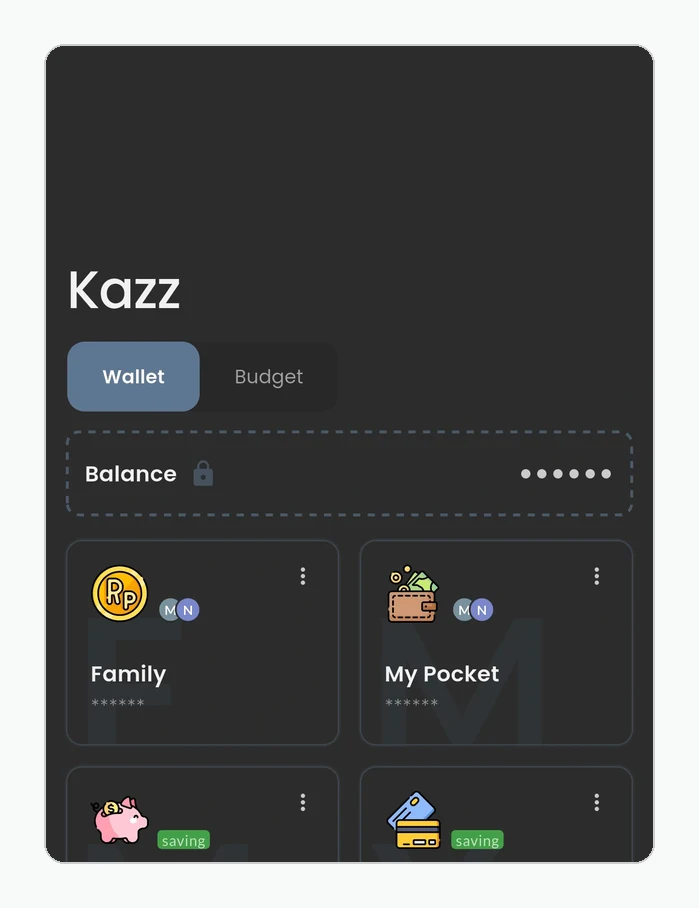
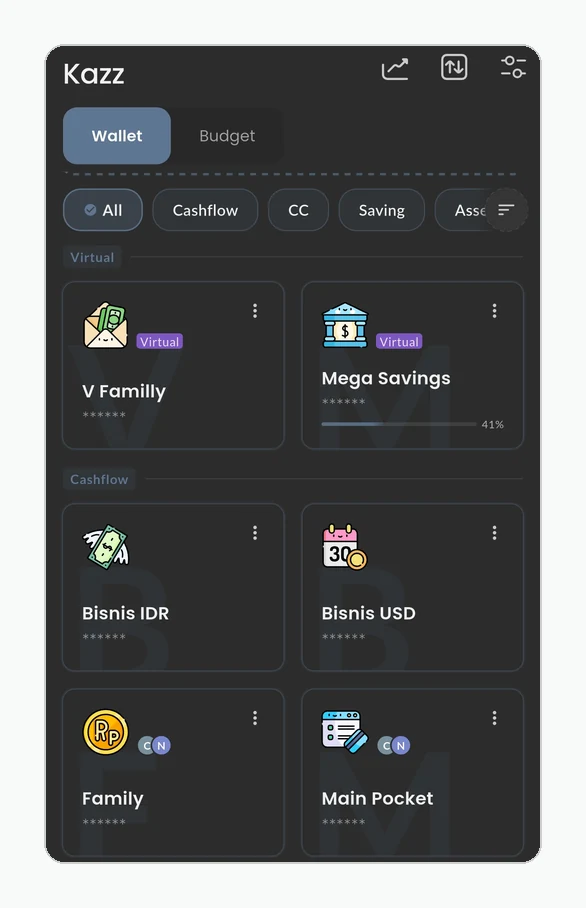
feat(portfolio): real screenshots, offline-first and iOS for Kazz
Screenshots. Three body images were still placeholders. The chat one is
now a real conversation; receipt scan and split bill had no screenshot
to replace them with, so the images and their references are gone and
the prose stays. Home and the wallet list are retaken from the current
app, and notification auto-log gets an image of its own, since it is
the feature the article leads with. Both cards are now three of the
designed iOS store screenshots side by side, with no panel shared
between the Kazz and Kazz AI cards.

Offline-first. The app no longer asks the server for home with a
conditional request; transactions, wallets and categories live on the
phone, queue while offline, and sync both ways (money-magnet #256). The
304 section is replaced by one on working without a signal: replayed
changes apply once, balances are recomputed on the server rather than
pushed, and concurrent edits merge field by field. Voice, receipt
capture and Kazz AI still need a connection and are not claimed
otherwise. drafts/README.md is corrected to match.

Also: virtual wallets that group two to eight wallets as one; iOS is
out, so the App Store is linked, sign-in is Google or Apple, and
notification capture is marked Android only, which iOS does not allow.

The chat flow diagram now hangs Tool 1-3 under the agents, n8n style,
with results looping back to them. Em dashes are gone from both
articles and both diagrams.

diff --git a/content/portfolio/kazz.md b/content/portfolio/kazz.md
@@ -1,26 +1,27 @@
 ---
-title: "Kazz — a personal finance app with 18,000 users (2025 - Present)"
+title: "Kazz, a personal finance app with 18,000 users (2025 - Present)"
 date: 2025-06-01T09:00:00+08:00
 draft: false
 image: "/img/portfolio/kazz-front.webp"
 showonlyimage: false
 weight: 7
 tags: ["flutter", "golang", "postgresql", "genkit", "ai"]
-categories: ["android", "backend"]
+categories: ["android", "ios", "backend"]
 ---
 
-A personal expense tracker on Android: record what you spend by typing, speaking, or photographing the receipt — or let the app lift it straight out of your bank notifications — then hold it to a budget and ask the app what the month looked like. [Flutter, Golang, PostgreSQL].
+A personal expense tracker for Android and iOS: record what you spend by typing, speaking, or photographing the receipt, or let the app lift it straight out of your bank notifications. Then hold it to a budget and ask the app what the month looked like. [Flutter, Golang, PostgreSQL].
 <!--more-->
 
-Kazz is mine end to end — the Flutter app, the Go backend, and the landing page at [kalsel.dev](https://www.kalsel.dev/). It runs across Asia-Pacific with more than 18,000 active users and 410,000 transactions logged, rated 4.8 from 181 reviews on [Google Play](https://play.google.com/store/apps/details?id=dev.kalsel.kazz). Android today; iOS later in 2026.
+Kazz is mine end to end: the Flutter app, the Go backend, and the landing page at [kalsel.dev](https://www.kalsel.dev/). It runs across Asia-Pacific with more than 18,000 active users and 410,000 transactions logged, rated 4.8 from 181 reviews on [Google Play](https://play.google.com/store/apps/details?id=dev.kalsel.kazz), and now on the [App Store](https://apps.apple.com/app/kazz-expense-tracker/id6814098959) as well.
 
 ![The home screen][home]
 
 #### What it does
 - record transactions by typing, by voice, or by scanning a receipt
-- turn bank and e-wallet notifications into drafts on their own, confirmed in a batch
+- keep recording with no signal, synced when the phone is back online
+- turn bank and e-wallet notifications into drafts on their own, confirmed in a batch (Android)
 - ask Kazz AI about your own spending and have it draw the chart
-- keep several wallets — cash flow, savings, a hidden-balance pocket, a gold pocket valued at the current price
+- keep several wallets (cash flow, savings, a hidden-balance pocket, a gold pocket valued at the current price) and group them into a virtual wallet
 - share a wallet with a partner or family, synced in real time
 - budget by week, month, quarter, year, or a range you choose, with alerts
 - classify spending as Need, Want, or Save, the Kakeibo way
@@ -33,19 +34,19 @@ Kazz is mine end to end — the Flutter app, the Go backend, and the landing pag
 
 This is the feature that changes how the app is used.
 
-Every expense tracker has the same real problem, and it is not data entry — it is memory. People do not abandon these apps because logging is hard; they abandon them because three days go by, four transactions are gone, and the totals are now fiction. Once the numbers are wrong, there is no reason to open it again.
+![Auto-log from notifications][autolog]
+
+Every expense tracker has the same real problem, and it is not data entry. It is memory. People do not abandon these apps because logging is hard; they abandon them because three days go by, four transactions are gone, and the totals are now fiction. Once the numbers are wrong, there is no reason to open it again.
 
 So Kazz reads the notifications your bank and e-wallet apps already post to your phone, and saves them as drafts. They arrive on their own, at the moment the money moved. Later you open the list, tap once, and the AI turns the batch into transactions.
 
-The drafts matter as much as the capture. Nothing is recorded until you accept it, which keeps the automation on the right side of the line: it does the remembering and the typing, and you keep the decision. And it does not involve your bank: these are notifications your phone has already been sent, read on the device rather than through an account you have to connect.
+The drafts matter as much as the capture. Nothing is recorded until you accept it, which keeps the automation on the right side of the line: it does the remembering and the typing, and you keep the decision. And it does not involve your bank: these are notifications your phone has already been sent, read on the device rather than through an account you have to connect. That is also why it is Android only: iOS does not let one app read another app's notifications.
 
 #### Three ways to enter one yourself
 
 ![Logging a transaction][inputs]
 
-For everything that never produced a notification — cash, a market stall, splitting something with a friend — typing works and nobody enjoys it. Say the transaction instead and it comes back parsed into amount, category, and wallet.
-
-![Receipt scan][scan]
+For everything that never produced a notification, like cash, a market stall, or splitting something with a friend, typing works and nobody enjoys it. Say the transaction instead and it comes back parsed into amount, category, and wallet.
 
 Or photograph the receipt and get the line items back itemised.
 
@@ -53,7 +54,7 @@ Or photograph the receipt and get the line items back itemised.
 
 Every chart in an app answers a question somebody anticipated in advance. The chat answers the ones nobody did.
 
-Ask where the money went last month, how much is left in the food budget, or how this month compares with February, and the answer is built from your own transactions — with the chart drawn alongside it when the shape matters more than the total. You can record a transaction by saying it in the chat, and ask about Kazz itself when you cannot find a feature.
+Ask where the money went last month, how much is left in the food budget, or how this month compares with February, and the answer is built from your own transactions, with the chart drawn alongside it when the shape matters more than the total. You can record a transaction by saying it in the chat, and ask about Kazz itself when you cannot find a feature.
 
 It is not reserved for subscribers. Every account gets it; the free tier rations how often rather than locking it away. [Kazz AI](/portfolio/kazz-ai/) covers how it is built.
 
@@ -61,7 +62,9 @@ It is not reserved for subscribers. Every account gets it; the free tier rations
 
 ![Wallets and pockets][pockets]
 
-A wallet is not one kind of thing. Cash flow is money you are spending this month. Savings is money you are not. The hidden-balance pocket exists because seeing a number makes it tempting — you can fund it and the balance stays out of sight. The gold pocket tracks weight rather than money and re-values itself as the price moves, so net worth stays honest without you maintaining it.
+A wallet is not one kind of thing. Cash flow is money you are spending this month. Savings is money you are not. The hidden-balance pocket exists because seeing a number makes it tempting, so you can fund it and the balance stays out of sight. The gold pocket tracks weight rather than money and re-values itself as the price moves, so net worth stays honest without you maintaining it.
+
+A virtual wallet goes the other way: it holds no money of its own. It groups two to eight wallets in the same currency, such as three accounts at one bank, and shows them as one, with a combined balance, one merged list of transactions, and a single monthly summary. Give it a target and a date and it tracks progress across all of them. Nothing moves: each wallet keeps its own transactions, and the group is worked out on the phone from what is already there.
 
 #### How a budget stays current
 
@@ -69,7 +72,7 @@ A wallet is not one kind of thing. Cash flow is money you are spending this mont
 
 A budget in Kazz is a set of pocket-and-category pairs with an amount and a period, so *groceries and eating out, from the household wallet, this month* is one budget rather than three.
 
-Keeping its total current is the interesting part. Recalculating inside the request would make saving a transaction slower for everyone, including the overwhelming majority of transactions that no budget is watching. So the write path asks one cheap question first — does any budget care about this pocket and category? — and only then hands the work to a background worker. The screen reads a stored number and adds nothing up.
+Keeping its total current is the interesting part. Recalculating inside the request would make saving a transaction slower for everyone, including the overwhelming majority of transactions that no budget is watching. So the write path asks one cheap question first: does any budget care about this pocket and category? Only then does it hand the work to a background worker. The screen reads a stored number and adds nothing up.
 
 Crossing the alert threshold raises one notification per period rather than one per transaction, and on Pro a budget that reaches its end date is cloned into the next period automatically.
 
@@ -79,7 +82,7 @@ Crossing the alert threshold raises one notification per period rather than one 
 
 Reports run daily, weekly, and monthly, and compare against the period before. A heatmap marks the days money actually left, which is usually a more useful answer than a category total: most people are not overspending steadily, they are overspending on particular days.
 
-Your financial month does not have to start on the 1st — set it to the day you are paid and every report follows.
+Your financial month does not have to start on the 1st. Set it to the day you are paid and every report follows.
 
 #### Shared wallets and two currencies
 
@@ -87,27 +90,31 @@ A wallet can be shared with a partner or a parent, and everyone on it sees the s
 
 Amounts are stored in the currency they were spent in and displayed in yours, which matters for anyone earning in one place and spending in another.
 
-#### Why the home screen opens quickly
+#### Working without a signal
 
-Home is the screen people open most and usually the screen with the least news on it — you checked an hour ago and nothing has happened since.
+Money gets spent where the signal is worst: a basement food court, a market, a ferry, a flight. An app that needs the server to save a transaction loses exactly those, and lost transactions are how the totals turn into fiction.
 
-So the app keeps its own copy and asks the server a conditional question rather than a fresh one. When nothing has changed the answer is a `304` with no body at all, and the screen redraws from what the phone is already holding. It is cheap on both sides: no payload to send, no payload to parse, and the common case costs almost nothing.
+So the parts of Kazz used every day (transactions, wallets, and categories) live on the phone first. You can record, edit, or delete with no connection at all. Each change waits in a queue and goes up when the phone is back online, and whatever changed elsewhere, such as a partner adding to a shared wallet or the same account on a second phone, comes down the same way. Home is worked out on the phone from that local copy, so it opens without waiting on the network.
+
+Two rules keep the numbers honest. A change that is sent twice, because a connection dropped halfway, is only ever applied once, so a retry cannot double a transaction. And balances never travel up from the phone: the server recomputes them from the transactions, so two devices that were offline at the same time cannot drift apart. When two edits do meet, the one that reaches the server last wins, field by field. Change the amount on one phone and the note on another, and both survive.
+
+Exchange rates are kept on the phone too, so a transfer between currencies shows an estimate offline and the server settles the final figure when it arrives. Kazz AI still needs a connection; recording your money does not.
 
 #### What Kazz does not keep
 
-Sign-in is through Google, and that is all the identity there is — no name, no phone number, no profile. Accounts are addressed by a one-way hash of the email, which means the user list cannot be browsed, including by me.
+Sign-in is through Google or Apple, and that is all the identity there is: no name, no phone number, no profile. Accounts are addressed by a one-way hash of the email, which means the user list cannot be browsed, including by me.
 
 #### Tech stack
-1. Flutter — the Android app, with the home screen served from its local copy when nothing has changed
-2. Golang — the API, hexagonal, with idempotent writes and cursor pagination
-3. PostgreSQL — including trigram search across user-written notes
-4. Redis and a job queue — budget recalculation, alerts, and scheduled work
-5. Genkit — the AI layer, described in [Kazz AI](/portfolio/kazz-ai/)
-6. OpenTelemetry — traces and metrics across every service call
+1. Flutter: the Android and iOS app, offline-first for transactions, wallets, and categories
+2. Golang: the API, hexagonal, with idempotent writes and a push-and-pull sync
+3. PostgreSQL, including trigram search across user-written notes
+4. Redis and a job queue for budget recalculation, alerts, and scheduled work
+5. Genkit: the AI layer, described in [Kazz AI](/portfolio/kazz-ai/)
+6. OpenTelemetry for traces and metrics across every service call
 
 [home]: /img/portfolio/kazz-home.webp
+[autolog]: /img/portfolio/kazz-autolog.webp
 [inputs]: /img/portfolio/kazz-inputs.webp
-[scan]: /img/portfolio/kazz-scan.webp
 [pockets]: /img/portfolio/kazz-pockets.webp
 [budget]: /img/portfolio/kazz-budget-flow.svg
 [heatmap]: /img/portfolio/kazz-heatmap.webp

diff --git a/content/portfolio/kazz-ai.md b/content/portfolio/kazz-ai.md
@@ -1,5 +1,5 @@
 ---
-title: "Kazz AI — the assistant inside Kazz (2025 - Present)"
+title: "Kazz AI, the assistant inside Kazz (2025 - Present)"
 date: 2025-09-01T09:00:00+08:00
 draft: false
 image: "/img/portfolio/kazz-ai-front.webp"
@@ -24,7 +24,7 @@ Every account gets this, not only paying ones. The free tier rations how often r
 - read a photographed receipt into itemised expenses
 - suggest a category for a transaction instead of asking you to pick one
 - split a scanned bill evenly, per item, or by percentage
-- answer questions about Kazz itself — where a feature lives, what it does
+- answer questions about Kazz itself: where a feature lives, what it does
 
 #### Asking about your own money
 
@@ -36,7 +36,7 @@ When the answer involves a breakdown, a comparison, or a trend, the reply carrie
 
 ![How a question is answered][flow]
 
-Several agents and several tools take part in a single answer, and not one of them reaches the database on its own. Every tool calls the same application service an ordinary screen calls, with the same credentials you signed in with — so it inherits that code's authorization and cannot see anything you could not already open for yourself.
+Several agents and several tools take part in a single answer, and not one of them reaches the database on its own. Every tool calls the same application service an ordinary screen calls, with the same credentials you signed in with, so each tool inherits that code's authorization and cannot see anything you could not already open for yourself.
 
 On the way back, results are stripped of their record identifiers before any model reads them. Together with an account that is only ever a one-way hash of an email address, that means a conversation about your spending carries amounts, dates and categories, and nothing that points at you or at a row in a table.
 
@@ -44,7 +44,7 @@ On the way back, results are stripped of their record identifiers before any mod
 
 ![The detailed report][report]
 
-The review is written prose rather than a dashboard — what went up, what went down, which days did the damage, and what that suggests for next month. It compares against the previous period, so "high" means high for you rather than high in the abstract.
+The review is written prose rather than a dashboard: what went up, what went down, which days did the damage, and what that suggests for next month. It compares against the previous period, so "high" means high for you rather than high in the abstract.
 
 It is generated off the request path. You ask, the work is queued, a notification arrives when it is ready. Nobody waits on a spinner for a language model, and the load spreads out rather than landing all at once at the start of the month.
 
@@ -52,18 +52,16 @@ It is generated off the request path. You ask, the work is queued, a notificatio
 
 Receipt scanning and voice entry both end in the same place: a draft transaction with an amount, a category, and a wallet already filled in, waiting for you to confirm it. Categorisation runs on ordinary typed entries too.
 
-![Split bill][splitbill]
-
 Split bill is the same capability pointed at a shared receipt. Scan the bill, divide it evenly, by item, or by percentage, and the amounts each person owes come out the other side.
 
 #### What the model is not trusted with
 
 Anything the model returns about your figures is checked against the real aggregates before it is stored, and anything it invents is dropped and counted. A number that reaches you has been verified against your own records, because a plausible wrong figure in a finance app is worse than no figure at all.
 
-Chat sessions carry an expiry, and the length is chosen in the app — three hours unless you change it.
+Chat sessions carry an expiry, and the length is chosen in the app: three hours unless you change it.
 
 #### Tech stack
-1. Golang with Genkit — tools, structured output, and streaming
+1. Golang with Genkit for tools, structured output, and streaming
 2. OpenRouter and OpenAI behind a single port, with a per-request price ceiling
 3. A job queue and worker for report generation, delivered by push notification
 4. PostgreSQL for the stored reviews and conversation state
@@ -78,4 +76,3 @@ The reviews do not run in the request path, which is the same trade I made in [I
 [insight]: /img/portfolio/kazz-ai-insight.webp
 [chat]: /img/portfolio/kazz-ai-chat.webp
 [report]: /img/portfolio/kazz-ai-report.webp
-[splitbill]: /img/portfolio/kazz-splitbill.webp

diff --git a/drafts/README.md b/drafts/README.md
@@ -26,10 +26,12 @@ publishing anywhere.
 
 ## Corrections made after these drafts were written
 
-- Kazz is **not** offline-first and does not sync on reconnect. The app
-  keeps a local copy of the home screen and issues a conditional request;
-  when nothing has changed the server answers `304` with no body. Note
-  that kalsel.dev still advertises "Works offline", which does not match.
+- Kazz is offline-first for transactions, wallets (pockets), and categories
+  since the sync rollout (money-magnet PR #256, October 2026): changes queue
+  on the phone, push when online, and pull deltas back; home is computed on
+  the phone. The earlier `304`-on-home detail no longer applies to the
+  current app. Kazz AI still needs a connection, and so do voice and receipt
+  capture.
 - Auto-capture from bank and e-wallet notifications is a headline feature
   and was missing entirely. Capture happens on the device from
   notifications already delivered, not through a bank connection; the
